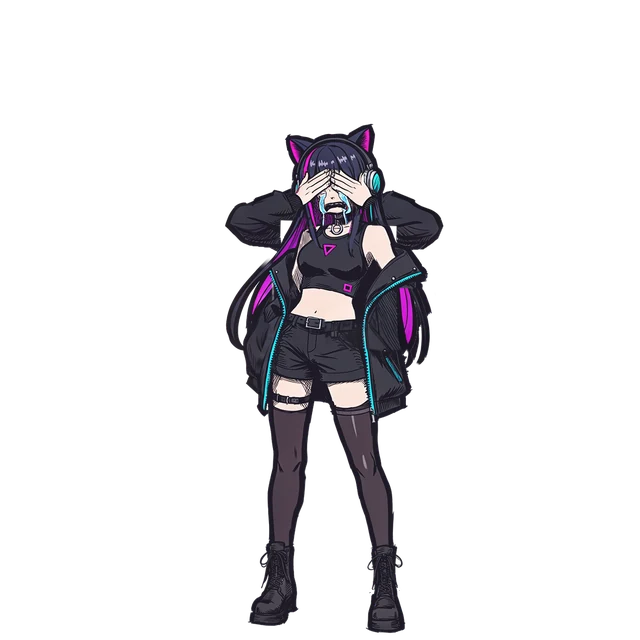
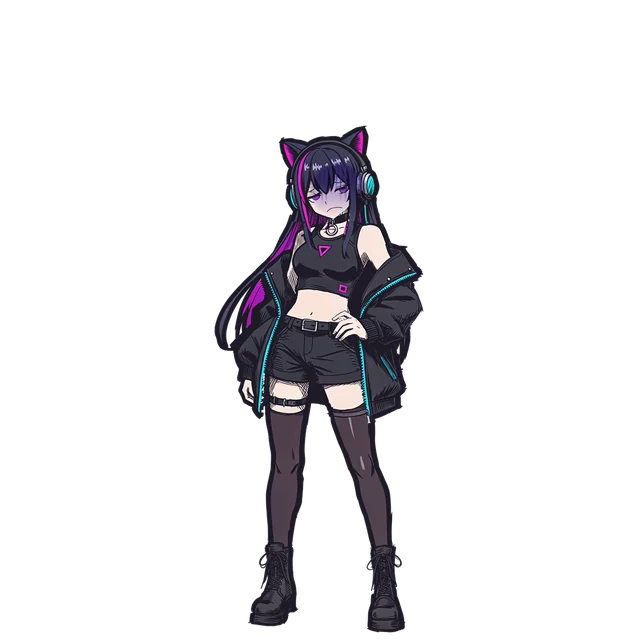
feat(mewbit): crushed becomes a deeper miss with an anime gloom
The sobbing, hands-over-eyes crushed read as too much in play. The new one
starts like miss, then sinks: lower hips, sagging shoulders, the head drops
and stays down on a sad face while a violet gloom with vertical strokes
falls over her brow. 26 frames at 30 fps, then it holds; bubble "mou~".

Changed region(s): [[0.3125, 0.1875, 0.6875, 0.9375]]

diff --git a/activity/src/mewbeat/mewbit/manifest.js b/activity/src/mewbeat/mewbit/manifest.js
@@ -24,10 +24,10 @@ export const MEWBIT_POSES = {
   vibe1: pose("vibe1", "game", run(64), 24, { rest: true, bubble: "nyaa~!" }),
   vibe2: pose("vibe2", "game", run(64), 24, { rest: true, bubble: "wooo!!" }),
   vibe3: pose("vibe3", "game", run(48), 24, { bubble: "SUGOI!!" }),
-  // These three fit MISS_POSE_MS, CRUSHED_POSE_MS and MILESTONE_POSE_MS in useMewbeatGame.js; crushed (hands
-  // over her eyes, sobbing) runs its full second and holds the last sob a little longer.
+  // These three fit MISS_POSE_MS, CRUSHED_POSE_MS and MILESTONE_POSE_MS in useMewbeatGame.js; crushed (a deeper
+  // miss: she sinks, head down, the gloom over her brow) plays in under a second and holds the gloom.
   miss: pose("miss", "game", run(14), 24, { hold: true, bubble: "eep!" }),
-  crushed: pose("crushed", "game", run(36), 36, { hold: true, bubble: "nyoo… ;-;" }),
+  crushed: pose("crushed", "game", run(26), 30, { hold: true, bubble: "mou~" }),
   milestone: pose("milestone", "game", run(21), 24, { hold: true }),
   fever: pose("fever", "game", run(48), 24, { bubble: "FEVER!!! ✦" }),
   charting: pose("charting", "game", run(48), 12, { rest: true, bubble: "charting…" }),
